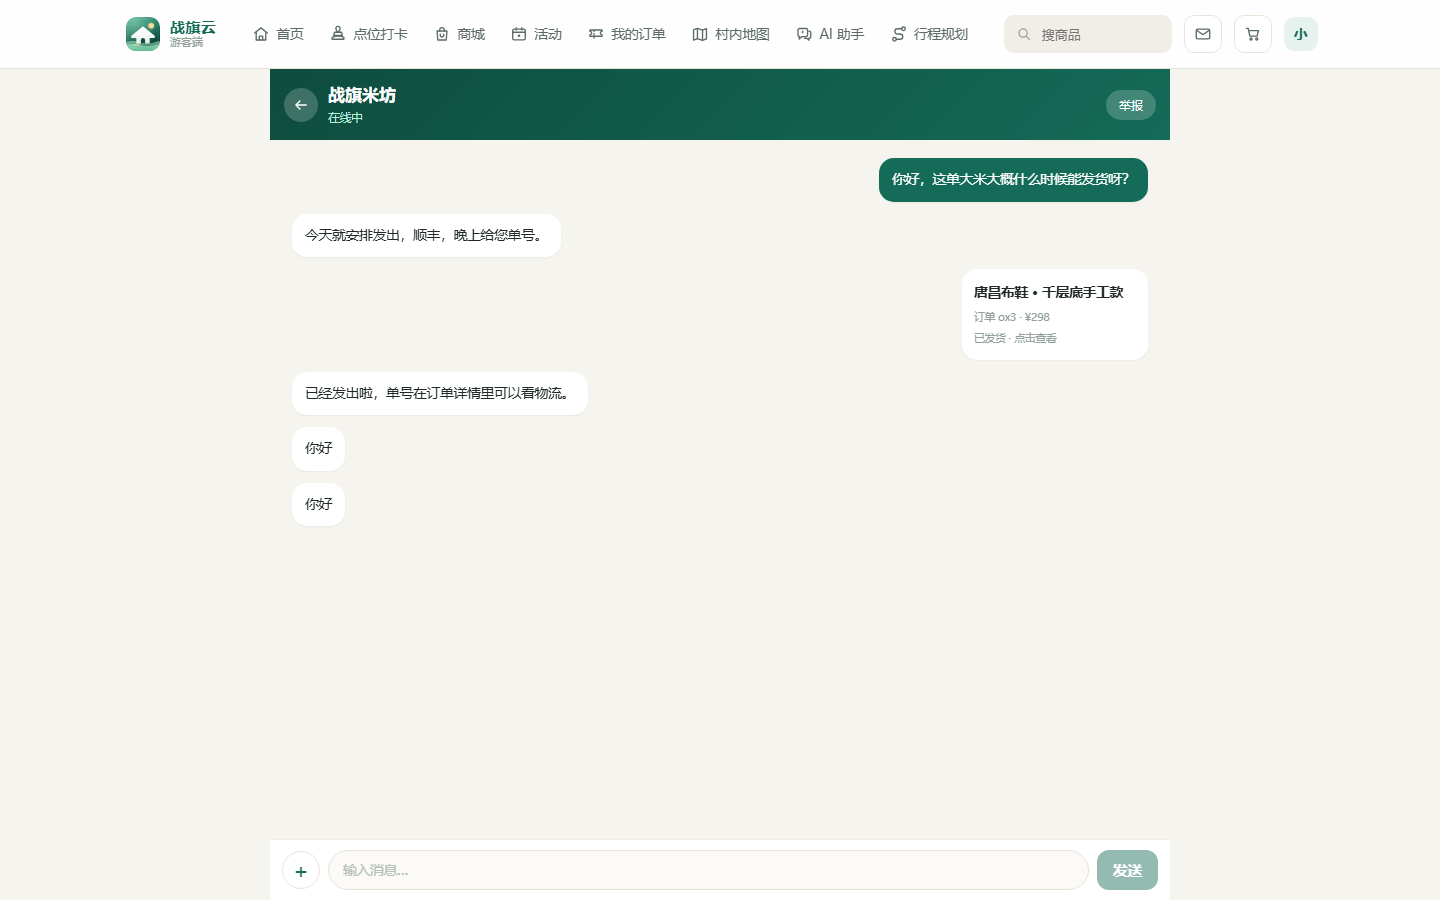
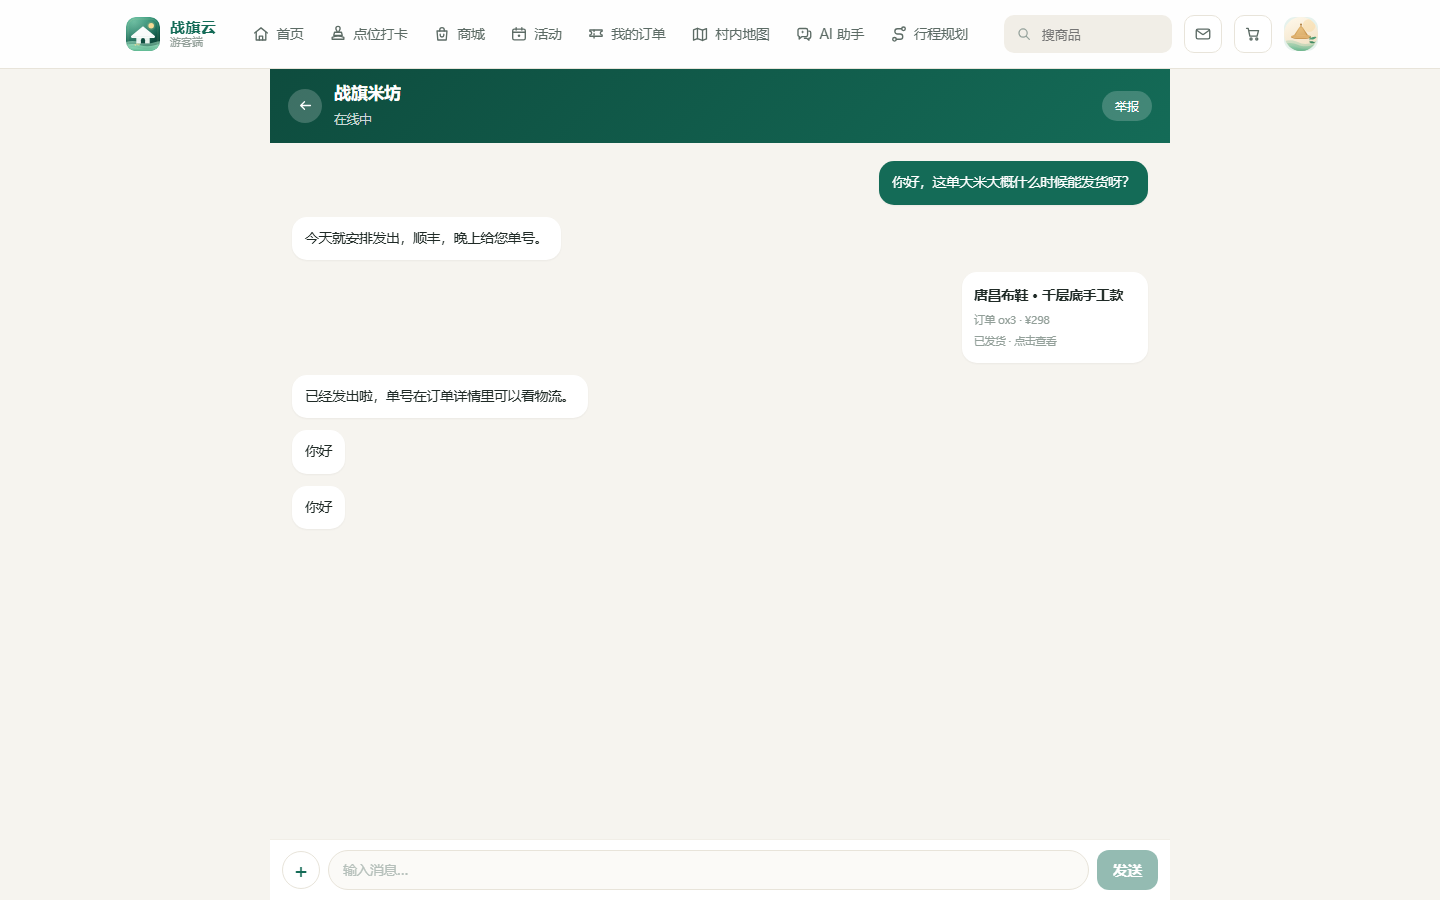
游客端电脑版打磨：顶部总览区改自然布局、个人中心精简、导航头像改图片
1. 电脑端页面级 .topbar 从深绿渐变横条降级为透明「页面标题区」（21px 深色标题 + 灰副标题 + 白底描边返回键），打卡进度条与筛选胶囊并进同一块浅色区域；聊天/AI 助手沉浸式顶栏保留渐变。\n2. 个人中心删除头像下方「印章/订单/消费」统计卡及 5 条对应样式，hero 下内边距 40px→22px 并补 .hero-mine + .pad-x 间距。\n3. 导航右上角头像不再用姓名首字兜底，改为始终渲染 img，无自定义头像时走 ZQProfile 默认艺术头像。\n4. 三份主题包清理「手机壳模拟器」遗留的宽屏 body 近黑底色，并覆盖主题包对 .topbar 的实色底设定。\n5. 村内地图页标题改为统一 div>h1+p 结构，修正桌面端标题字号偏小。

diff --git a/server/src/main/resources/static/visitor/css/visitor.css b/server/src/main/resources/static/visitor/css/visitor.css
@@ -307,7 +307,11 @@ body {
   background: linear-gradient(135deg, #146B57 0%, #1D9E75 58%, #22B183 100%);
   border-bottom-left-radius: 26px; border-bottom-right-radius: 26px;
 }
-.hero-mine { padding: 18px 16px 40px; }
+/* 下内边距原为 40px，是留给「印章/订单/消费」卡片用负上边距压住 hero 下沿的；
+   那张卡片已删，40px 会变成 hero 底部一块空绿，收回 22px 与首页 hero 一致。
+   卡片不再压住 hero 之后，需要自己让出一点间距，否则印章墙卡片会贴在 hero 下沿。 */
+.hero-mine { padding: 18px 16px 22px; }
+.hero-mine + .pad-x { padding-top: 14px; }
 .hero-inner { position: relative; display: flex; align-items: center; justify-content: space-between; gap: 14px; }
 .hero-left { flex: 1; min-width: 0; }
 .hero-hello { color: rgba(255, 255, 255, .85); font-size: 12.5px; }
@@ -692,12 +696,9 @@ body {
 
 /* --------------------------- 我的 --------------------------- */
 
-.stats { display: flex; align-items: center; margin: -24px 14px 12px; padding: 15px 0; }
-.stat { flex: 1; display: flex; flex-direction: column; align-items: center; cursor: pointer; }
-.stat b { font-size: 17px; color: var(--brand); }
-.stat span { font-size: 10.5px; color: var(--text-3); margin-top: 4px; }
-.stat-sep { width: 1px; height: 26px; background: var(--surface-3); }
-
+/* 「印章 / 订单 / 消费」三格已经被移除（个人中心里与下方菜单重复，且首页 hero 里已有集章进度）。
+   这里曾经是 .stats / .stat / .stat-sep 五条规则，其中 .stats 用 margin-top:-24px 压在 hero 下沿；
+   删掉卡片后 .hero-mine 的下内边距也同步从 40px 收到 22px，否则 hero 底部会留一块空。 */
 .menu { padding: 4px 14px; }
 .menu-item { display: flex; align-items: center; gap: 12px; padding: 13px 0; cursor: pointer; }
 .menu-line { border-bottom: 1px solid var(--surface-3); }
@@ -1307,8 +1308,88 @@ body {
   .page-body { max-width: 1180px; margin: 0 auto; padding-bottom: 40px; }
   .pad-x { padding: 0 26px; }
 
-  /* 顶部绿色条在电脑上不需要：那本是手机端用来替代标题栏的 */
-  .topbar { max-width: 1180px; margin: 0 auto; }
+  /* 顶部总览区：手机上的深绿渐变条是「替代标题栏」的省空间做法，
+     放到 1180px 宽的电脑页面上就成了一整条突兀的色带，和下面浅色卡片区割裂。
+     电脑上把它降级成与正文同层的「页面标题区」：透明底、深色字、无分隔线，
+     只靠字号层级区分，视觉上和下面的卡片是一整块。
+     注意：这里只改「页面级」顶栏；聊天 / AI 助手页的顶栏是沉浸式的，
+     下面有 .im-page > .topbar / .chat-page > .topbar 的单独覆盖，仍保持深绿。 */
+  .topbar {
+    max-width: 1180px; margin: 0 auto;
+    padding: 26px 26px 12px;
+    background: none;
+    border-bottom: 0;
+    color: var(--text);
+    gap: 12px;
+  }
+  .topbar-back {
+    width: 34px; height: 34px;
+    background: var(--surface);
+    border: 1px solid var(--line);
+    box-shadow: var(--shadow-sm);
+    color: var(--text-2);
+  }
+  .topbar-back .ico { width: 17px; height: 17px; color: var(--text-2); }
+  .topbar-title h1 { font-size: 21px; font-weight: 700; color: var(--text); letter-spacing: .2px; }
+  .topbar-title p { font-size: 12.5px; color: var(--text-3); margin-top: 5px; }
+  /* 主题包里给 .topbar 写了「深色/暖阳/青墨下换成 --surface 底色」的规则
+     （html[data-theme="dark"] .topbar，特异度 0,2,1），比上面这条 0,1,0 高，
+     所以换主题后标题区又会变成一块硬边的实色方块。这里同特异度、文件更靠后，覆盖回透明；
+     聊天 / 助手页的沉浸式顶栏仍是渐变底，单独放行。 */
+  html[data-theme="dark"] .topbar,
+  html[data-theme="warm"] .topbar,
+  html[data-theme="ink"] .topbar { background: none; border-bottom: 0; }
+  html[data-theme="dark"] .im-page > .topbar,
+  html[data-theme="dark"] .chat-page > .topbar,
+  html[data-theme="warm"] .im-page > .topbar,
+  html[data-theme="warm"] .chat-page > .topbar,
+  html[data-theme="ink"] .im-page > .topbar,
+  html[data-theme="ink"] .chat-page > .topbar {
+    background: linear-gradient(135deg, #0E4C3E 0%, #146B57 100%);
+  }
+
+  /* 商城把搜索框塞在标题下面（列向），电脑上空间够，改回「标题左、搜索右」一行 */
+  .topbar-shop {
+    flex-direction: row; align-items: center; justify-content: space-between;
+    gap: 20px; padding-bottom: 16px;
+  }
+  .topbar-shop .topbar-title { flex: none; }
+  .topbar-shop .search { width: 360px; max-width: 42%; }
+  .search-input { background: var(--surface); border-color: var(--line); }
+
+  /* 选项条（全部点位 / 我的印章墙、商城分类）：手机上是贴边的白底工具条，
+     电脑上白底通栏同样割裂，改成直接铺在页面底色上的一排胶囊 */
+  .tabs-pad {
+    max-width: 1180px; margin: 0 auto;
+    padding: 4px 26px 16px;
+    background: transparent;
+    border-bottom: 0;
+  }
+  .tabs-pad + .pad-x { padding-top: 0; }
+  /* 打卡进度条：并进上面的标题区，做成一条细进度 + 一行说明 */
+  .progress-wrap { max-width: 1180px; margin: 0 auto; padding: 0 26px 18px; }
+  .progress { max-width: 560px; height: 10px; }
+  .progress-tip { font-size: 12.5px; margin-top: 9px; }
+
+  /* 聊天 / AI 助手：这两页顶栏是沉浸式对话的一部分，电脑上仍保留深绿渐变，
+     只把返回键与标题字号恢复成对话页该有的规格 */
+  .im-page > .topbar,
+  .chat-page > .topbar {
+    padding: 13px 18px;
+    background: linear-gradient(135deg, #0E4C3E 0%, #146B57 100%);
+    border-bottom: 0;
+    color: #fff;
+  }
+  .im-page > .topbar .topbar-back,
+  .chat-page > .topbar .topbar-back {
+    background: rgba(255, 255, 255, .2); border-color: transparent; box-shadow: none; color: #fff;
+  }
+  .im-page > .topbar .topbar-back .ico,
+  .chat-page > .topbar .topbar-back .ico { color: #fff; }
+  .im-page > .topbar .topbar-title h1,
+  .chat-page > .topbar .topbar-title h1 { font-size: 16.5px; color: #fff; }
+  .im-page > .topbar .topbar-title p,
+  .chat-page > .topbar .topbar-title p { color: rgba(255, 255, 255, .78); }
 
   /* 底部操作条（商品详情「立即预约」、结算「提交订单」等）：
      手机上是贴屏幕底边的通栏，电脑上屏幕太宽，通栏会把「合计 ¥256」甩到最左边、

diff --git a/server/src/main/resources/static/visitor/index.html b/server/src/main/resources/static/visitor/index.html
@@ -189,9 +189,11 @@
               <i v-if="cartCount" class="badge">{{ cartCount }}</i>
             </button>
             <div class="nav-user">
-              <span class="avatar" @click="go('mine', true)">
-                <img v-if="avatarUrl" :src="avatarUrl" alt="">
-                <template v-else>{{ (user.name || '游').slice(0, 1) }}</template>
+              <!-- 头像按钮：始终显示图片。没上传过照片时用 ZQProfile 的默认艺术头像兜底，
+                   不再退化成「姓名首字」文字 —— 文字在 34px 的圆角方块里既不像头像，
+                   和左边两个图标按钮也不是一套视觉语言。 -->
+              <span class="avatar" @click="go('mine', true)" :title="user.name">
+                <img :src="avatarSrc" :alt="user.name" @error="imgFail">
               </span>
               <!-- 头像悬浮菜单：与商户端/管理端保持同一套结构（图标 + 文字），
                    改密码只在「个人中心」里，不再放进悬浮菜单。 -->
@@ -430,16 +432,6 @@
             </div>
             <button class="btn-ghost-light" @click="doLogout">退出</button>
           </div>
-        </div>
-
-        <div class="stats card">
-          <div class="stat" @click="go('spots', true); spotTab='wall'">
-            <b>{{ collected }}</b><span>枚印章</span>
-          </div>
-          <i class="stat-sep"></i>
-          <div class="stat" @click="openOrders()"><b>{{ orderCount }}</b><span>笔订单</span></div>
-          <i class="stat-sep"></i>
-          <div class="stat"><b>{{ money(spent) }}</b><span>累计消费</span></div>
         </div>
 
         <div class="pad-x">
@@ -1302,7 +1294,9 @@
       <section v-if="view === 'map'" class="page-body subpage">
         <div class="topbar">
           <button class="topbar-back" @click="go('home')"><svg class="ico"><use :href="iconHref('i-arrow-left')"></use></svg></button>
-          <b class="topbar-title">战旗村地图</b>
+          <!-- 标题用统一的 div>h1+p 结构（这里原来是一个裸 <b>，电脑端「页面标题区」的字号/颜色规则
+               是按 .topbar-title h1 写的，裸 <b> 会漏掉，导致地图页标题比别的页小一号） -->
+          <div class="topbar-title"><h1>战旗村地图</h1><p>14 个点位 · 研学 · 民宿 · 农事 · 活动</p></div>
         </div>
         <div class="pad-x map-page" style="padding-top:12px">
           <div class="map-filter">

diff --git a/server/src/main/resources/static/assets/css/theme-dark.css b/server/src/main/resources/static/assets/css/theme-dark.css
@@ -62,11 +62,10 @@ html[data-theme="dark"] { color-scheme: dark; }
 html[data-theme="dark"] body,
 html[data-theme="dark"] .screen { background: var(--bg); }
 
-/* H5 宽屏时手机模拟外框 */
-html[data-theme="dark"] .screen { box-shadow: 0 0 0 1px var(--line); }
-@media (min-width: 620px) {
-  html[data-theme="dark"] body { background: #0E1211; }
-}
+/* 游客端已经是一套自适应页面（不再是「手机壳 + 深色外框」），
+   宽屏时 body 直接铺满，不再需要给屏幕外的区域刷一圈近黑色。
+   之前这里写着 @media (min-width: 620px) { body { background: #0E1211 } }，
+   合并游客端后会让「暖阳」这种浅色主题在桌面端四周露出深色，故删除。 */
 
 /* 卡片、抽屉、底部栏、Tab 栏：默认白底的地方统一走 surface */
 html[data-theme="dark"] .card,

diff --git a/server/src/main/resources/static/assets/css/theme-warm.css b/server/src/main/resources/static/assets/css/theme-warm.css
@@ -59,11 +59,10 @@ html[data-theme="warm"] { color-scheme: dark; }
 html[data-theme="warm"] body,
 html[data-theme="warm"] .screen { background: var(--bg); }
 
-/* H5 宽屏时手机模拟外框 */
-html[data-theme="warm"] .screen { box-shadow: 0 0 0 1px var(--line); }
-@media (min-width: 620px) {
-  html[data-theme="warm"] body { background: #0E1211; }
-}
+/* 游客端已经是一套自适应页面（不再是「手机壳 + 深色外框」），
+   宽屏时 body 直接铺满，不再需要给屏幕外的区域刷一圈近黑色。
+   之前这里写着 @media (min-width: 620px) { body { background: #0E1211 } }，
+   合并游客端后会让「暖阳」这种浅色主题在桌面端四周露出深色，故删除。 */
 
 /* 卡片、抽屉、底部栏、Tab 栏：默认白底的地方统一走 surface */
 html[data-theme="warm"] .card,

diff --git a/server/src/main/resources/static/assets/css/theme-ink.css b/server/src/main/resources/static/assets/css/theme-ink.css
@@ -59,11 +59,10 @@ html[data-theme="ink"] { color-scheme: dark; }
 html[data-theme="ink"] body,
 html[data-theme="ink"] .screen { background: var(--bg); }
 
-/* H5 宽屏时手机模拟外框 */
-html[data-theme="ink"] .screen { box-shadow: 0 0 0 1px var(--line); }
-@media (min-width: 620px) {
-  html[data-theme="ink"] body { background: #0E1211; }
-}
+/* 游客端已经是一套自适应页面（不再是「手机壳 + 深色外框」），
+   宽屏时 body 直接铺满，不再需要给屏幕外的区域刷一圈近黑色。
+   之前这里写着 @media (min-width: 620px) { body { background: #0E1211 } }，
+   合并游客端后会让「暖阳」这种浅色主题在桌面端四周露出深色，故删除。 */
 
 /* 卡片、抽屉、底部栏、Tab 栏：默认白底的地方统一走 surface */
 html[data-theme="ink"] .card,

diff --git a/docs/worklog/2026-11-01-visitor-desktop-polish.md b/docs/worklog/2026-11-01-visitor-desktop-polish.md
@@ -1,0 +1,105 @@
+# 游客端：电脑版顶部总览区改版、个人中心精简、导航头像改图片
+
+- 日期：2026-11-01
+- 作者：lead（AI agent）
+- 分支 / PR：feat/virtual-map-ai-split-4themes
+
+## 做了什么、为什么
+
+这一轮是「把手机端合并成唯一游客端」之后的收尾打磨，用户提了三件具体的观感问题：
+
+1. **电脑版顶部总览区太突兀**。合并游客端时，所有子页面沿用手机端的深绿渐变
+   `.topbar`（手机上是替代标题栏的省空间做法）。在 414px 宽的手机上它是合理的，
+   但放到 1180px 宽的电脑页面上就变成一整条横贯的深绿色带：上方是白色导航、下方是
+   浅色卡片区，中间夹一条饱和绿，视觉上被切成三段。改法是把**页面级** `.topbar` 在
+   `@media (min-width:1024px)` 内降级成「页面标题区」——透明底、无分隔线、深色标题
+   21px、副标题 12.5px 灰、返回键从半透明白圆按钮换成白底描边圆按钮；打卡进度条并进
+   这块区域（细进度 + 一行说明）而不是单独一条；商城的搜索框从标题下方挪回标题右侧
+   同一行；选项胶囊条（全部点位 / 我的印章墙、商品分类）去掉白底通栏，直接铺在页面
+   底色上。**聊天页与 AI 助手页例外**，它们的顶栏是沉浸式对话的一部分，桌面仍保留
+   深绿渐变。
+
+2. **个人中心头像下面那栏「印章 / 订单 / 消费」要删**。三个数字本来就是从下面
+   「我的印章墙」和「我的订单」里能看到的重复信息，且用了 `margin-top:-24px` 压住
+   hero 下沿（手机端常见的「卡片浮起」手法），在电脑宽屏上这个浮起效果意义不大。
+  删掉卡片后必须连带处理两处：hero 的 `padding-bottom` 从 40px 改回 22px（原来多出来的
+   18px 就是给浮起卡留的），并新增 `.hero-mine + .pad-x { padding-top: 14px }`，否则
+   印章墙卡片会贴死 hero 下沿。
+
+3. **导航右上角原来是姓名首字，要改成头像图片**。原来写的是
+   `<img v-if="avatarUrl">` + `<template v-else>{{ (user.name || '游').slice(0,1) }}</template>`，
+   没自定义头像的用户看到的是一个圆角方块里孤零零一个汉字。改成直接
+   `<img :src="avatarSrc">`：`avatarSrc`（visitor.js:500-503）本身就是
+   `avatarUrl || window.ZQProfile.defaultFor('buyer')`，已经带默认艺术头像兜底，
+   不需要再在模板里分支。
+
+另外顺手修了村内地图页的标题：它是唯一一个把标题写成裸 `<b class="topbar-title">`
+的页面（别处都是 `.topbar-title > h1`），吃不到字号规则，桌面端标题比别的页小一号。
+
+## 关键决策与取舍
+
+- **桌面顶栏做成「透明标题区」而不是「保留深绿但缩窄」**。备选方案是给
+  `.topbar` 加 `border-radius` 做成一块圆角色卡、或干脆在桌面 `display:none` 只靠导航
+  高亮表示当前页。前者仍是色块、仍割裂；后者会让子页面（点详情、商品详情、订单详情）
+  失去页面标题，用户不知道自己点进了什么。透明标题区是唯一同时满足「不割裂」和
+  「有标题层级」的做法。
+- **聊天 / AI 助手页顶栏不跟着改**。这两页是 `height:100dvh` 的纵向 flex 全屏页，顶栏
+  是对话的一部分而不是页面导航；改成浅色后消息区和顶栏会糊成一片。代价是要多写
+  6 条 `html[data-theme=...] .im-page > .topbar` 的特例规则，可接受。
+- **头像不做「有图用图、无图用首字」的两套视觉**。默认头像是 `assets/img/avatar-visitor.svg`
+  里画好的艺术头像，比首字更像头像；两套视觉还会让 34px 的小方块在不同用户之间跳跃。
+
+## 踩坑与排查过程
+
+1. **主题包把桌面标题区又涂成了实色方块**。改完 `light` 主题看着挺好，切到深色/暖阳/
+   青墨就变回一块硬边方块。根因：三份主题包（theme-dark.css:218、theme-warm.css:216、
+   theme-ink.css:216）都有 `html[data-theme="x"] .topbar { background: var(--surface) }`，
+   特异度 0,2,1，压过新写的桌面 `.topbar`（0,1,0）。修法是在 visitor.css 的桌面媒体查询里
+   补同特异度的 `html[data-theme="dark"] .topbar, ... { background: none; border-bottom: 0 }`
+   （同特异度、文件更靠后，胜出），并对沉浸式两页单独放行回渐变。
+
+2. **主题包给宽屏 body 刷了近黑色**。深色主题下桌面四周露出一圈近黑 `#0E1211` —— 那是
+   当年「手机壳模拟器」时代给屏幕外区域刷的外框底色（`@media (min-width:620px)`）。
+   合并成一套自适应页面后 body 直接铺满，这个块就成了纯污染。三份主题包各删一段。
+
+3. **探测脚本拿到的是隐藏的 topbar**。第一次量 `.topbar` 的 computed style，结果全是
+   `w=0/h=0`，误以为样式没生效。真因是页面里同时存在十几个 `v-if` 分支的 `.topbar`，
+   `document.querySelector('.topbar')` 命中的是另一个视图里没渲染的那一个。做法：先按
+   `getBoundingClientRect().width > 0` 过滤出可见元素再量。
+
+4. **run_code 里用 `String.raw` 拼探测脚本会炸**。模板字符串嵌套时 `String.raw` 后面直接
+   跟反引号，被解析成函数调用，报 `TypeError: String.raw(...) is not a function`。
+   改成把浏览器端表达式用数组 `join('\n')` 拼成普通字符串、再用 `JSON.stringify` 嵌进
+   生成的脚本文本，稳定且不用处理转义。
+
+## 自检结果
+
+- `node tools/normalize-scripts.js --check`：通过（未改脚本）
+- `node tools/smoke-test.js 8083`：159/159 通过
+- `node tools/browser-check.js 8083`：116/116 通过
+- dist jar 是否已同步：未改 Java，无需重打包（静态资源以
+  `--spring.web.resources.static-locations=file:...` 方式验证）
+
+浏览器实机检查覆盖到的相关断言（本轮新增/受益）：桌面顶部导航每项不换行不重叠、
+桌面 `.topnav` 可见、手机 414 下 `.topnav` 隐藏且 `.tabbar` 4 项、
+点位详情与研学/民宿/农事三类商品详情均有地图且至少 1 个标记、
+行程规划内容距卡片边 ≥12px、`/visitor/pc/` 已废弃返回非游客端页面。
+
+四主题 × 双视口实测（headless Chrome，1440×900 与 414×896）：`.topbar` 背景
+`rgba(0,0,0,0)`、`backgroundImage: none`，标题色分别为 rgb(31,42,38) / rgb(232,237,234) /
+rgb(59,46,34) / rgb(230,237,240)，body 背景随主题切换且无深色外框残留；
+`.stats` 元素计数为 0；导航头像首子元素是 `IMG`、src 为默认艺术头像；
+无横向溢出；全流程 0 条未捕获异常与控制台错误。
+
+## 遗留问题与下一步
+
+- 手机端「我的」页 hero 与第一张卡片的间距实测为 0（桌面是 30px）。原因是 `.hero-mine`
+  的下内边距与后续 `.pad-x` 的上内边距在 414 宽度下的叠加被卡片自身的 margin 抵消，
+  视觉上印章墙紧贴 hero 下沿，尚可接受，未处理。
+- 桌面端 1024–1160px 档位导航会收成「只留图标」（`.nav-links a span { display:none }`），
+  这是上一轮就有的降级策略，本轮没动。
+
+## 沉淀到记忆的条目
+
+见 `docs/agent-memory.md` 本轮追加的三条（主题包实色规则覆盖桌面顶栏、宽屏 body 外框底色、
+探测隐藏元素要先按尺寸过滤）。

diff --git a/docs/agent-memory.md b/docs/agent-memory.md
@@ -595,6 +595,20 @@
   把内容挤回正文宽度。
   （2026-10-31，来源：同上）
 
+## 主题包与桌面端样式（2026-11-01 游客端电脑版打磨）
+
+- **三份主题包（theme-dark / theme-warm / theme-ink）里都写死了 `html[data-theme="x"] .topbar { background: var(--surface) }`（特异度 0,2,1）**。改了基础 `.topbar` 的底色后，light 主题看着正常、切主题立刻被这三条压回实色方块。修法不是改主题包（三端共用），而是在组件样式表里写同特异度、文件更靠后的覆盖规则。
+  （2026-11-01，来源：2026-11-01-visitor-desktop-polish）
+
+- **主题包里有「手机壳模拟器时代」的遗留段**：`@media (min-width:620px){ html[data-theme=x] body { background:#0E1211 } }`，给屏幕外区域刷深色外框。页面改成一套自适应后 body 直接铺满，这段会让桌面端四周露出深色边。合并游客端 / 去掉限宽时必须一起清掉。
+  （2026-11-01，来源：同上）
+
+- **探测页面里「同名但属于不同 v-if 分支」的元素，必须先按尺寸过滤**。`document.querySelector('.topbar')` 会命中隐藏分支里那个（`w=0/h=0`），量到的 computed style 全是默认值，极易误判成「样式没生效」。先 `getBoundingClientRect().width > 0` 再量。
+  （2026-11-01，来源：同上）
+
+- **手机上的「深绿渐变顶栏」搬到电脑宽屏就是一条割裂的色带**。手机端顶栏是替代标题栏的省空间做法，桌面应降级为透明标题区（大字标题 + 灰色副标题 + 白底描边返回键），把进度条、筛选胶囊并进同一块浅色区域；唯独 `height:100dvh` 的沉浸式对话页（聊天、AI 助手）保留渐变，否则消息区和顶栏会糊成一片。
+  （2026-11-01，来源：同上）
+
 ## 协作流程约定（2026-10-31 起长期有效）
 
 - **默认交付流程：提交并推送功能分支 → 创建 PR 到 main → 条件满足即自动合并。**
